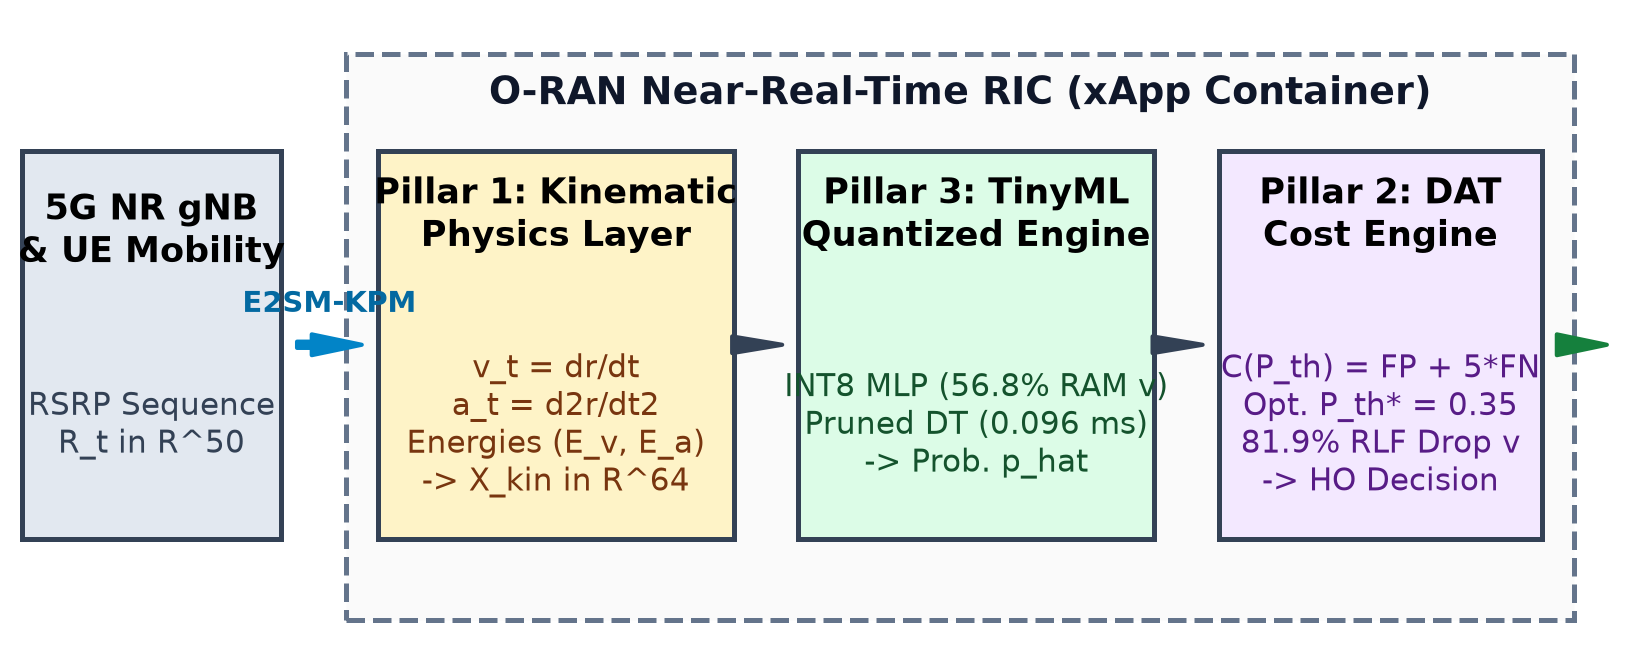
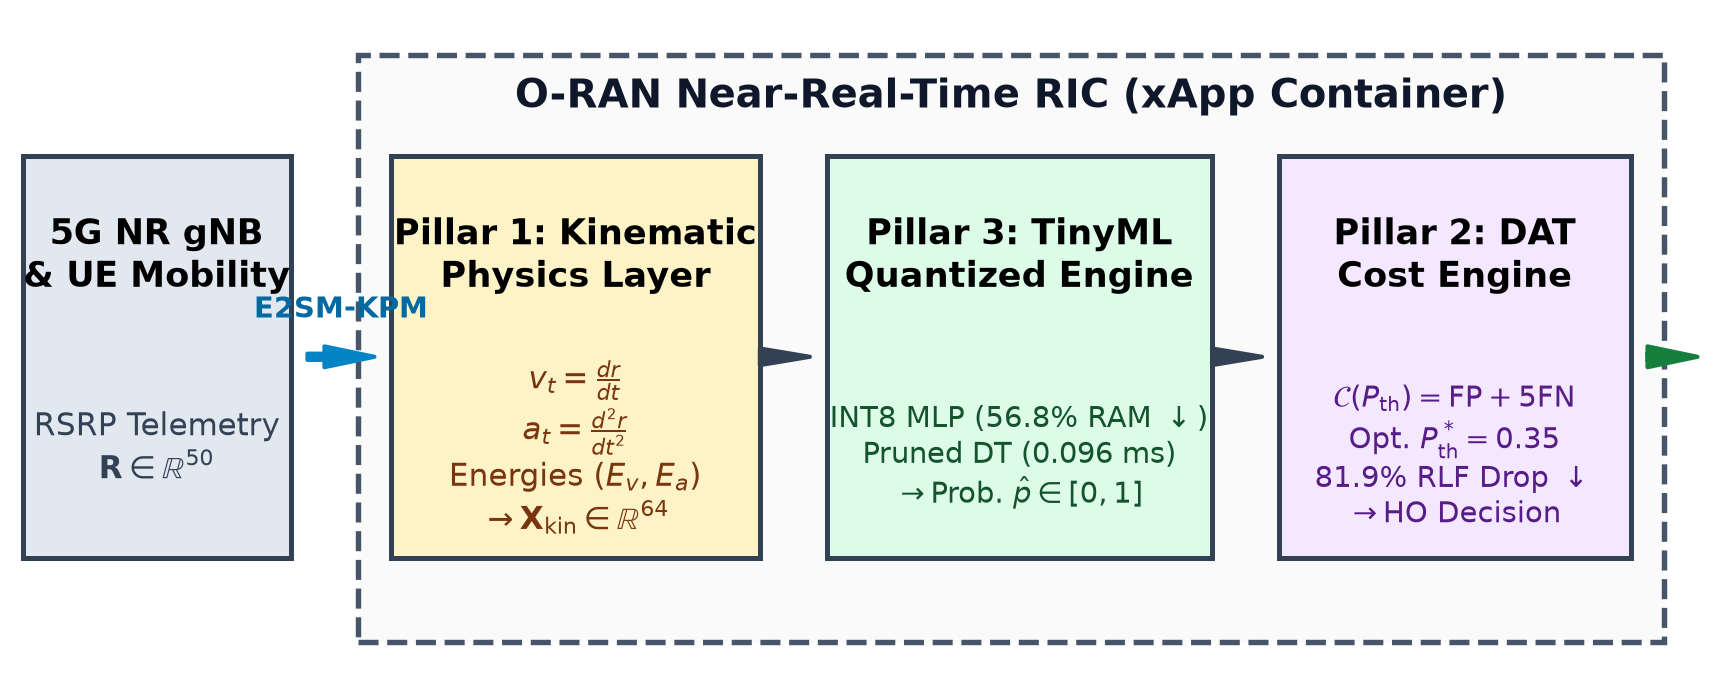
docs: update author details (Himanshu Rathore, CSE, [email redacted]), refine Fig 1 architecture diagram math formatting, and recompile PDF/notebooks

Changed region(s): [[0.0, 0.0608, 0.9822, 0.9422], [0.2149, 0.9422, 0.9515, 0.9726], [0.9515, 0.8511, 0.9822, 0.9422]]

diff --git a/src/generate_arch_diagram.py b/src/generate_arch_diagram.py
@@ -1,7 +1,7 @@
 """
 generate_arch_diagram.py
 ========================
-Generates a publication-quality vector PDF and PNG block diagram
+Generates a high-resolution vector PDF and PNG block diagram
 illustrating the 5G O-RAN Near-RT RIC 3-Pillar xApp Architecture.
 """
 
@@ -10,64 +10,67 @@ import matplotlib.pyplot as plt
 import matplotlib.patches as patches
 
 def create_architecture_diagram():
-    fig, ax = plt.subplots(figsize=(8, 2.8), dpi=300)
-    ax.set_xlim(0, 10)
-    ax.set_ylim(0, 4)
+    fig, ax = plt.subplots(figsize=(8.5, 2.9), dpi=300)
+    ax.set_xlim(0, 10.2)
+    ax.set_ylim(0, 4.0)
     ax.set_aspect('equal')
     ax.axis('off')
     
-    # Colors
-    c_ran = '#e2e8f0'      # Slate (gNB)
+    # Professional IEEE Color Palette
+    c_ran = '#e2e8f0'      # Slate (gNB Block)
     c_p1  = '#fef3c7'      # Amber (Pillar 1)
-    c_p3  = '#dcfce7'      # Green (Pillar 3)
+    c_p3  = '#dcfce7'      # Emerald (Pillar 3)
     c_p2  = '#f3e8ff'      # Purple (Pillar 2)
-    c_ric = '#fafafa'      # RIC Box
-    c_border = '#334155'   # Border
+    c_ric = '#fafafa'      # RIC Box Background
+    c_border = '#334155'   # Border line color
     
-    # 1. RIC Container
-    ric_box = patches.Rectangle((2.1, 0.2), 7.6, 3.5, ec="#64748b", fc=c_ric, linestyle='--', lw=1.2)
+    # 1. Outer Container: O-RAN Near-RT RIC
+    ric_box = patches.Rectangle((2.1, 0.2), 7.8, 3.5, ec="#475569", fc=c_ric, linestyle='--', lw=1.3)
     ax.add_patch(ric_box)
-    ax.text(5.9, 3.45, "O-RAN Near-Real-Time RIC (xApp Container)", ha='center', va='center', fontsize=9, fontweight='bold', color="#0f172a")
+    ax.text(6.0, 3.45, "O-RAN Near-Real-Time RIC (xApp Container)", ha='center', va='center', fontsize=9.5, fontweight='bold', color="#0f172a")
     
-    # 2. 5G NR gNB Block
+    # 2. Left Block: 5G NR gNB
     gnb_box = patches.Rectangle((0.1, 0.7), 1.6, 2.4, ec=c_border, fc=c_ran, lw=1.2)
     ax.add_patch(gnb_box)
-    ax.text(0.9, 2.6, "5G NR gNB\n& UE Mobility", ha='center', va='center', fontsize=8.5, fontweight='bold')
-    ax.text(0.9, 1.4, "RSRP Sequence\nR_t in R^50", ha='center', va='center', fontsize=7.5, color='#334155')
+    ax.text(0.9, 2.50, "5G NR gNB\n& UE Mobility", ha='center', va='center', fontsize=8.5, fontweight='bold')
+    ax.text(0.9, 1.35, "RSRP Telemetry\n" + r"$\mathbf{R} \in \mathbb{R}^{50}$", ha='center', va='center', fontsize=7.5, color='#334155')
     
-    # Arrow E2
+    # Arrow E2 Interface
     ax.annotate('', xy=(2.2, 1.9), xytext=(1.8, 1.9),
                 arrowprops=dict(facecolor='#0284c7', edgecolor='#0284c7', width=1.5, headwidth=5))
-    ax.text(2.0, 2.15, "E2SM-KPM", ha='center', va='center', fontsize=7, fontweight='bold', color='#0369a1')
+    ax.text(2.0, 2.18, "E2SM-KPM", ha='center', va='center', fontsize=7, fontweight='bold', color='#0369a1')
     
-    # 3. Pillar 1 Block
+    # 3. Pillar 1: Kinematic Physics Layer
     p1_box = patches.Rectangle((2.3, 0.7), 2.2, 2.4, ec=c_border, fc=c_p1, lw=1.2)
     ax.add_patch(p1_box)
-    ax.text(3.4, 2.7, "Pillar 1: Kinematic\nPhysics Layer", ha='center', va='center', fontsize=8.5, fontweight='bold')
-    ax.text(3.4, 1.4, "v_t = dr/dt\na_t = d2r/dt2\nEnergies (E_v, E_a)\n-> X_kin in R^64", ha='center', va='center', fontsize=7.5, color='#78350f')
+    ax.text(3.4, 2.50, "Pillar 1: Kinematic\nPhysics Layer", ha='center', va='center', fontsize=8.5, fontweight='bold')
+    ax.text(3.4, 1.35, r"$v_t = \frac{dr}{dt}$" + "\n" + r"$a_t = \frac{d^2r}{dt^2}$" + "\nEnergies (" + r"$E_v, E_a$" + ")\n" + r"$\rightarrow \mathbf{X}_{\mathrm{kin}} \in \mathbb{R}^{64}$", 
+            ha='center', va='center', fontsize=7.5, color='#78350f')
     
     # Arrow P1 -> P3
     ax.annotate('', xy=(4.8, 1.9), xytext=(4.6, 1.9),
                 arrowprops=dict(facecolor='#334155', edgecolor='#334155', width=1.2, headwidth=4))
     
-    # 4. Pillar 3 Block
-    p3_box = patches.Rectangle((4.9, 0.7), 2.2, 2.4, ec=c_border, fc=c_p3, lw=1.2)
+    # 4. Pillar 3: TinyML Quantized Engine
+    p3_box = patches.Rectangle((4.9, 0.7), 2.3, 2.4, ec=c_border, fc=c_p3, lw=1.2)
     ax.add_patch(p3_box)
-    ax.text(6.0, 2.7, "Pillar 3: TinyML\nQuantized Engine", ha='center', va='center', fontsize=8.5, fontweight='bold')
-    ax.text(6.0, 1.4, "INT8 MLP (56.8% RAM v)\nPruned DT (0.096 ms)\n-> Prob. p_hat", ha='center', va='center', fontsize=7.5, color='#14532d')
+    ax.text(6.05, 2.50, "Pillar 3: TinyML\nQuantized Engine", ha='center', va='center', fontsize=8.5, fontweight='bold')
+    ax.text(6.05, 1.30, "INT8 MLP (56.8% RAM " + r"$\downarrow$" + ")\nPruned DT (0.096 ms)\n" + r"$\rightarrow \text{Prob. } \hat{p} \in [0,1]$", 
+            ha='center', va='center', fontsize=7.0, color='#14532d')
     
     # Arrow P3 -> P2
-    ax.annotate('', xy=(7.4, 1.9), xytext=(7.2, 1.9),
+    ax.annotate('', xy=(7.5, 1.9), xytext=(7.3, 1.9),
                 arrowprops=dict(facecolor='#334155', edgecolor='#334155', width=1.2, headwidth=4))
     
-    # 5. Pillar 2 Block
-    p2_box = patches.Rectangle((7.5, 0.7), 2.0, 2.4, ec=c_border, fc=c_p2, lw=1.2)
+    # 5. Pillar 2: DAT Cost Engine
+    p2_box = patches.Rectangle((7.6, 0.7), 2.1, 2.4, ec=c_border, fc=c_p2, lw=1.2)
     ax.add_patch(p2_box)
-    ax.text(8.5, 2.7, "Pillar 2: DAT\nCost Engine", ha='center', va='center', fontsize=8.5, fontweight='bold')
-    ax.text(8.5, 1.4, "C(P_th) = FP + 5*FN\nOpt. P_th* = 0.35\n81.9% RLF Drop v\n-> HO Decision", ha='center', va='center', fontsize=7.5, color='#581c87')
+    ax.text(8.65, 2.50, "Pillar 2: DAT\nCost Engine", ha='center', va='center', fontsize=8.5, fontweight='bold')
+    ax.text(8.65, 1.30, r"$\mathcal{C}(P_{\mathrm{th}}) = \mathrm{FP} + 5\mathrm{FN}$" + "\nOpt. " + r"$P_{\mathrm{th}}^* = 0.35$" + "\n81.9% RLF Drop " + r"$\downarrow$" + "\n" + r"$\rightarrow \text{HO Decision}$", 
+            ha='center', va='center', fontsize=7.0, color='#581c87')
     
     # Arrow P2 -> Out
-    ax.annotate('', xy=(9.9, 1.9), xytext=(9.6, 1.9),
+    ax.annotate('', xy=(10.1, 1.9), xytext=(9.8, 1.9),
                 arrowprops=dict(facecolor='#15803d', edgecolor='#15803d', width=1.5, headwidth=5))
     
     output_dir = os.path.join(os.path.dirname(os.path.dirname(os.path.abspath(__file__))), "paper", "figures")
@@ -80,7 +83,7 @@ def create_architecture_diagram():
     plt.savefig(png_path, bbox_inches='tight', pad_inches=0.02, dpi=300)
     plt.close()
     
-    print(f"[OK] Generated clean architecture diagram:")
+    print(f"[OK] Generated high-resolution architecture diagram:")
     print(f"  - PDF: {pdf_path}")
     print(f"  - PNG: {png_path}")
 

diff --git a/paper/main.tex b/paper/main.tex
@@ -19,11 +19,11 @@
 \title{Physics-Informed Dynamic Thresholding and TinyML Quantization for Low-Latency 5G O-RAN Handover Optimization\\
 }
 
-\author{\IEEEauthorblockN{Himanshu Kumar}
-\IEEEauthorblockA{\textit{Department of Electronics and Communication Engineering} \\
-\textit{Indian Institute of Technology / Autonomous Systems Laboratory}\\
+\author{\IEEEauthorblockN{Himanshu Rathore}
+\IEEEauthorblockA{\textit{Department of Computer Science and Engineering} \\
+\textit{Autonomous Systems Laboratory}\\
 India \\
[email redacted]}
[email redacted]}
 }
 
 \maketitle

diff --git a/project_info/presentation_slides_content.md b/project_info/presentation_slides_content.md
@@ -7,8 +7,8 @@ This document contains slide-by-slide text content that you can copy and paste d
 ## 🖥️ Slide 1: Title Slide
 * **Title:** Physics-Informed Dynamic Thresholding and TinyML Quantization for Low-Latency 5G O-RAN Handover Optimization
 * **Subtitle:** xApp Design for Near-Real-Time RIC Controllers
-* **Presenter:** Himanshu Kumar
-* **Affiliation:** Department of Electronics & Communication Engineering
+* **Presenter:** Himanshu Rathore
+* **Affiliation:** Department of Computer Science and Engineering
 
 ---
 